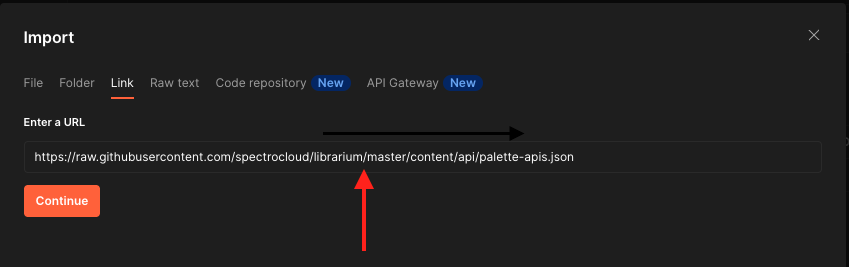
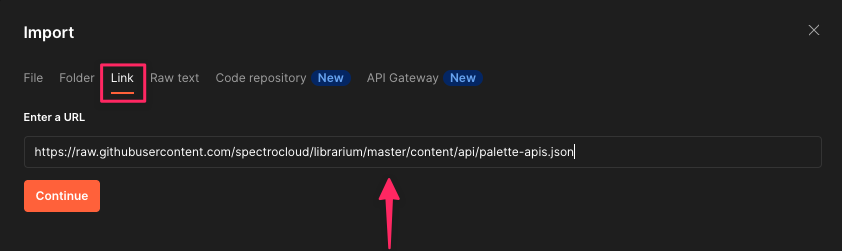
Create Postman Collection API doc

diff --git a/content/api/3-postman-collection.md b/content/api/3-postman-collection.md
@@ -21,8 +21,12 @@ Spectro Cloud provides a Postman collection for your convenience to help you int
 
 To interact with the API, you will need the following:
 
-* A base URL (https://api.spectrocloud.com/v1).
+* A base URL (https://api.spectrocloud.com).
 * An authentication method. 
+
+<InfoBox>
+If you're running Palette on a self-hosted server instead of the SaaS version, use your server URL as the base URL in the API request.
+</InfoBox>
 
 ## Authentication
 
@@ -32,17 +36,20 @@ Two forms of authentication are available to interact with the Spectro Cloud API
 or
 * An API Key with an ApiKey value.
 
-To learn more about these authentication methods, navigate to https://docs.spectrocloud.com/api/introduction.
+Learn more about [authentication methods](https://docs.spectrocloud.com/user-management/user-authentication) in Palette documentation.
 
-## Import the Payload
+## Import the Postman Collection
 
-After you set up authorization, use this URL to import your configuration:
+Use this URL to import your configuration:
 
-https://raw.githubusercontent.com/spectrocloud/librarium/master/content/api/palette-apis.json.
+https://raw.githubusercontent.com/spectrocloud/librarium/master/content/api/palette-apis.json
 
-![Copy/paste the URL in the **Import** dialog as a link.](URL-as-a-link.png)
+1. Open the **Import** dialog. 
+2. Select the **Link** tab and copy/paste the URL in the field as shown in the screenshot. 
+3. Click the **Continue** button.  
+Postman imports your collection and lists it under Import Complete.
+
+![Copy/paste the URL in the **Import** dialog as a link.](URL-as-a-link.png)   
 
 
-
-
-To learn more about importing a Postman collection, navigate to https://learning.postman.com/docs/getting-started/importing-and-exporting-data/.
+Find details about importing in Postman's [import/export](https://learning.postman.com/docs/getting-started/importing-and-exporting-data/) tutorial.
